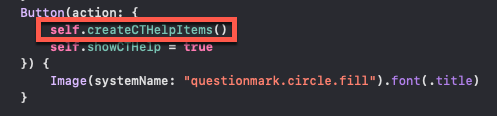
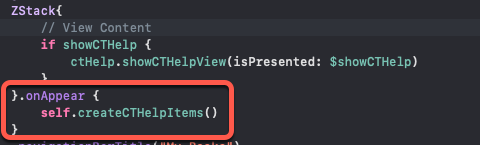
Added clear items for helpItems array and new Embed gif Cleaned up ReadMe

Changed region(s): [[0.0, 0.4914, 0.9688, 1.0], [0.0, 0.0259, 0.875, 0.4655]]

diff --git a/Sources/CTHelp/Models/CTHelp.swift b/Sources/CTHelp/Models/CTHelp.swift
@@ -21,6 +21,10 @@ public class CTHelp {
         self.ctString = ctString
         self.ctColors = ctColors
     }
+    
+    public func clearItems() {
+        helpItems.removeAll()
+    }
     /// Create a new help item and add it to the helpItems Array.
     ///
     /// - Parameter helpItem: an item of help.

diff --git a/README.md b/README.md
@@ -73,6 +73,8 @@ An sample function is as follows creates 5 help cards
 
 ```swift
 func createCTHelpItems() {
+  // This will clear out any cards in case this function gets called repeatedly for this view
+   ctHelp.clearItems()
   // Card 1 is a card with no text and a single image
         ctHelp.new(CTHelpItem(title:"My Books",
         helpText: "",
@@ -132,14 +134,7 @@ ctHelp.appendDefaults(companyName: "CreaTECH Solutions",
                       companyImageName: "CreaTech")
 ```
 
-
-##### Step 7 - Add a call to the function prior to toggling state
-
-Call this function just prior to toggling the **showCTHelp** state variable in your button action
-
-![calllFunction](calllFunction.png)
-
-##### Step 8 - Embed screen view in ZStack
+##### Step 7 - Embed screen view in ZStack
 
 CTHelp will be displayed as an overlay view on top of your existing screen views.  This is done when the showCTHelp value is set to true.
 
@@ -155,15 +150,21 @@ Inside the **ZStack**, after your last bit of content, add the following code.
 
 This will conditionally overlay your help cards only when the showCTHelp variable is set to true.
 
-If you run your project now, you will see that the button action will display the help when tapped. 
-
 ```swift
  // Last item in parent ZStack
 if showCTHelp {
-  ctHelp.showCTHelpView(ctHelp: ctHelp, showCTHelp: $showCTHelp)
+  ctHelp.showCTHelpView(isPresented: $showCTHelp)
 }
 
 ```
+
+##### Step 9 - Add a call to the function when the view appears
+
+Call this function when your ZStack view appears.
+
+![calllFunction](calllFunction.png)
+
+If you run your project now, you will see that the button action will display the help when tapped. 
 
 ##### Step 10 - Final Touches
 
